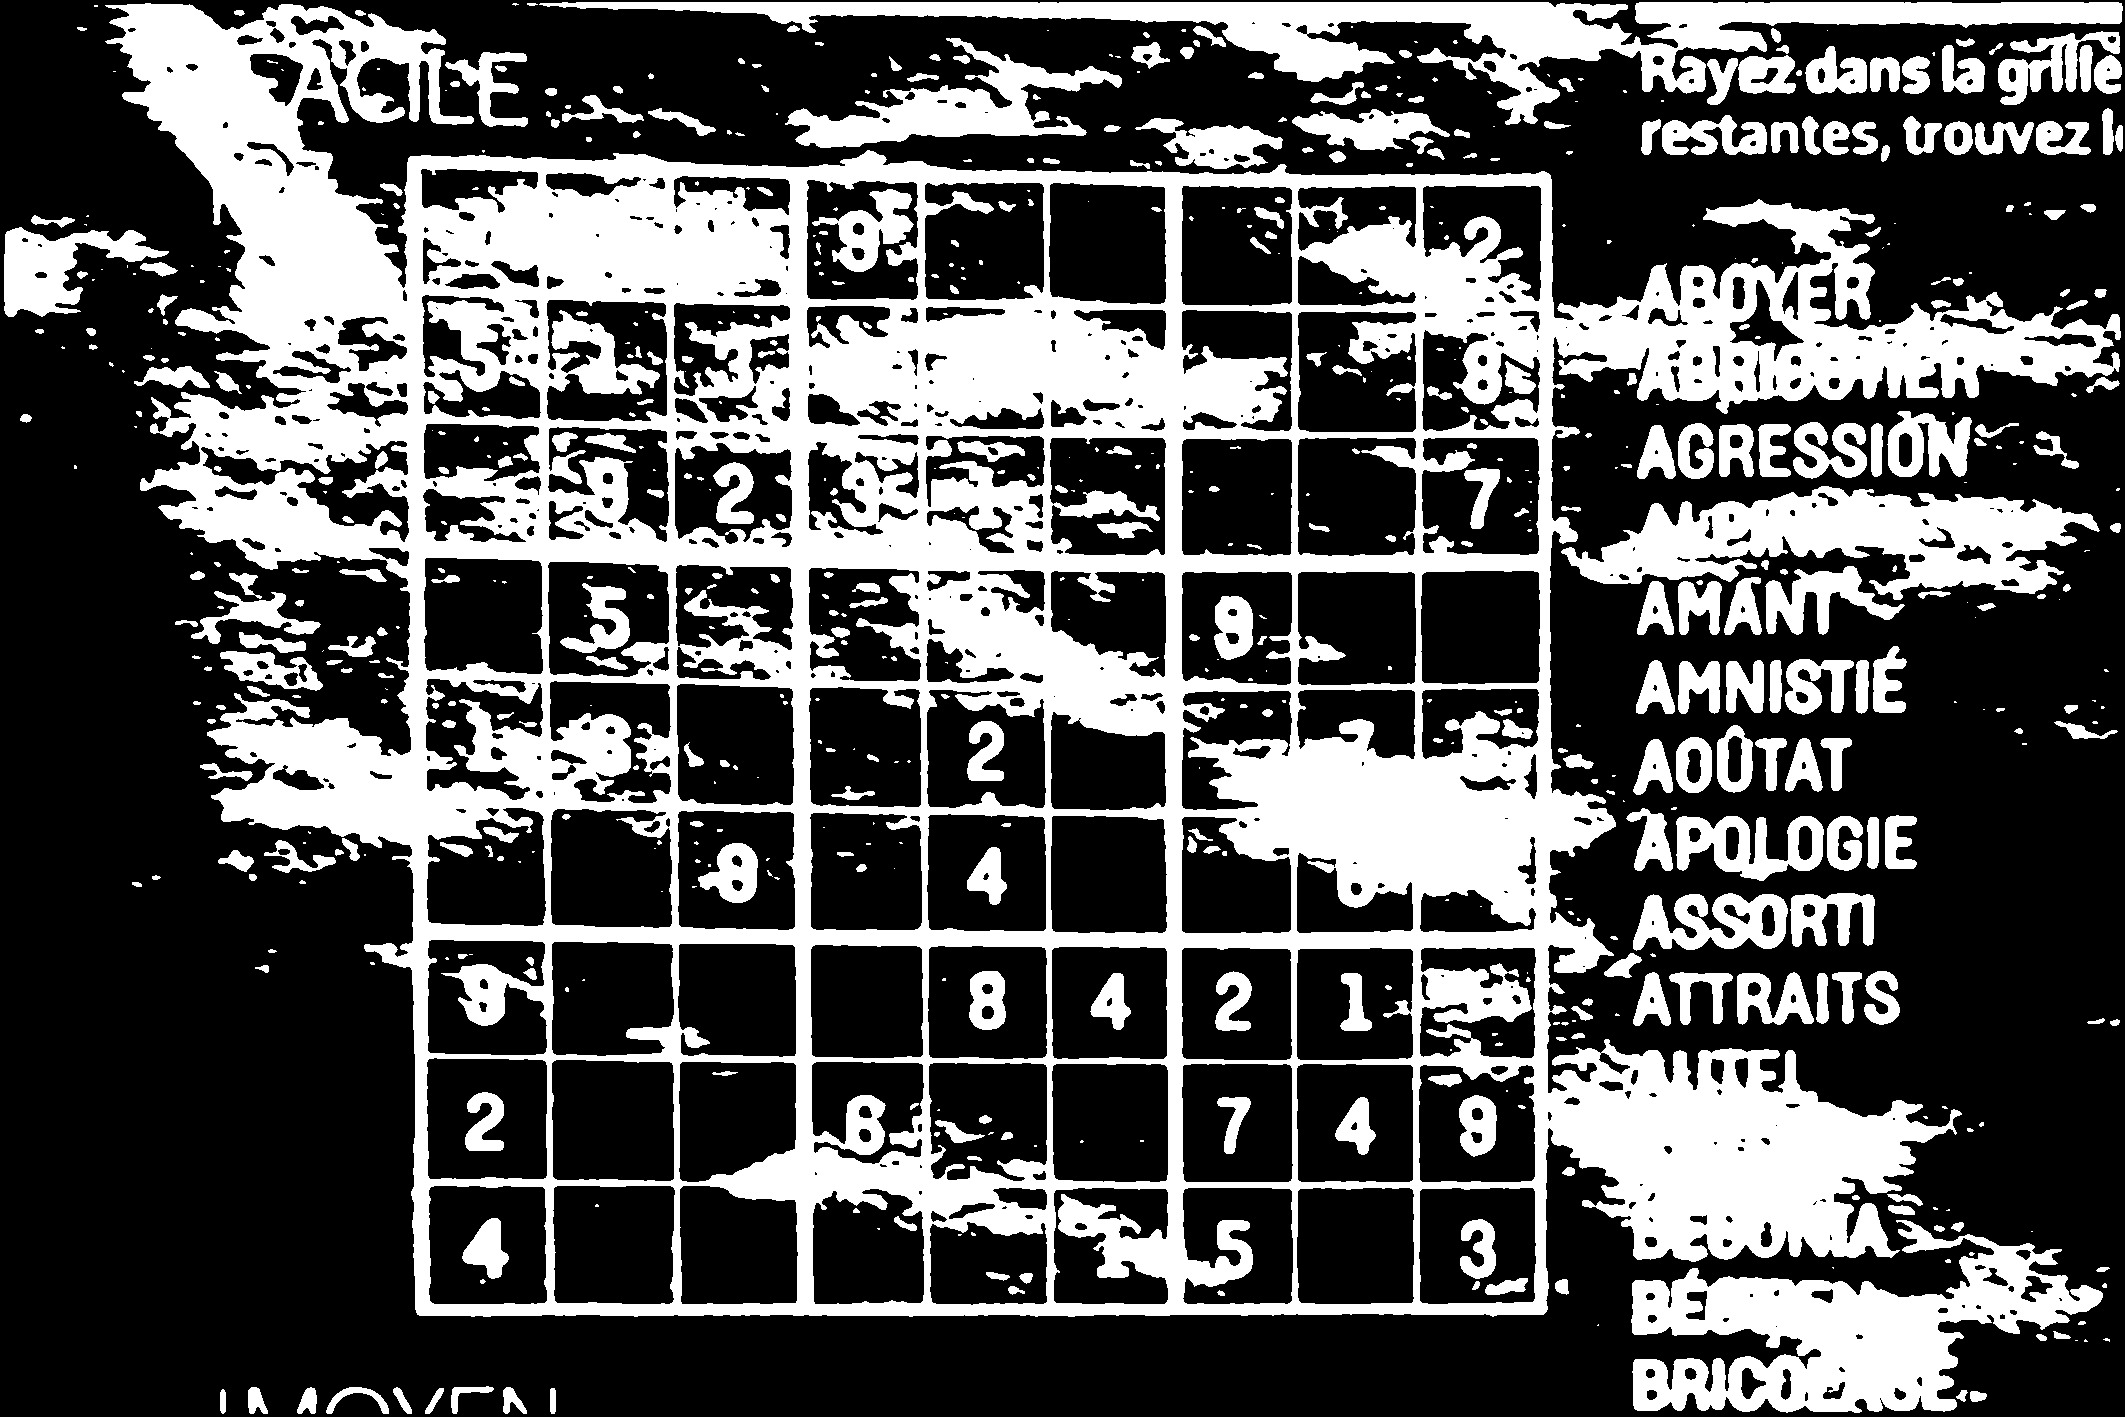
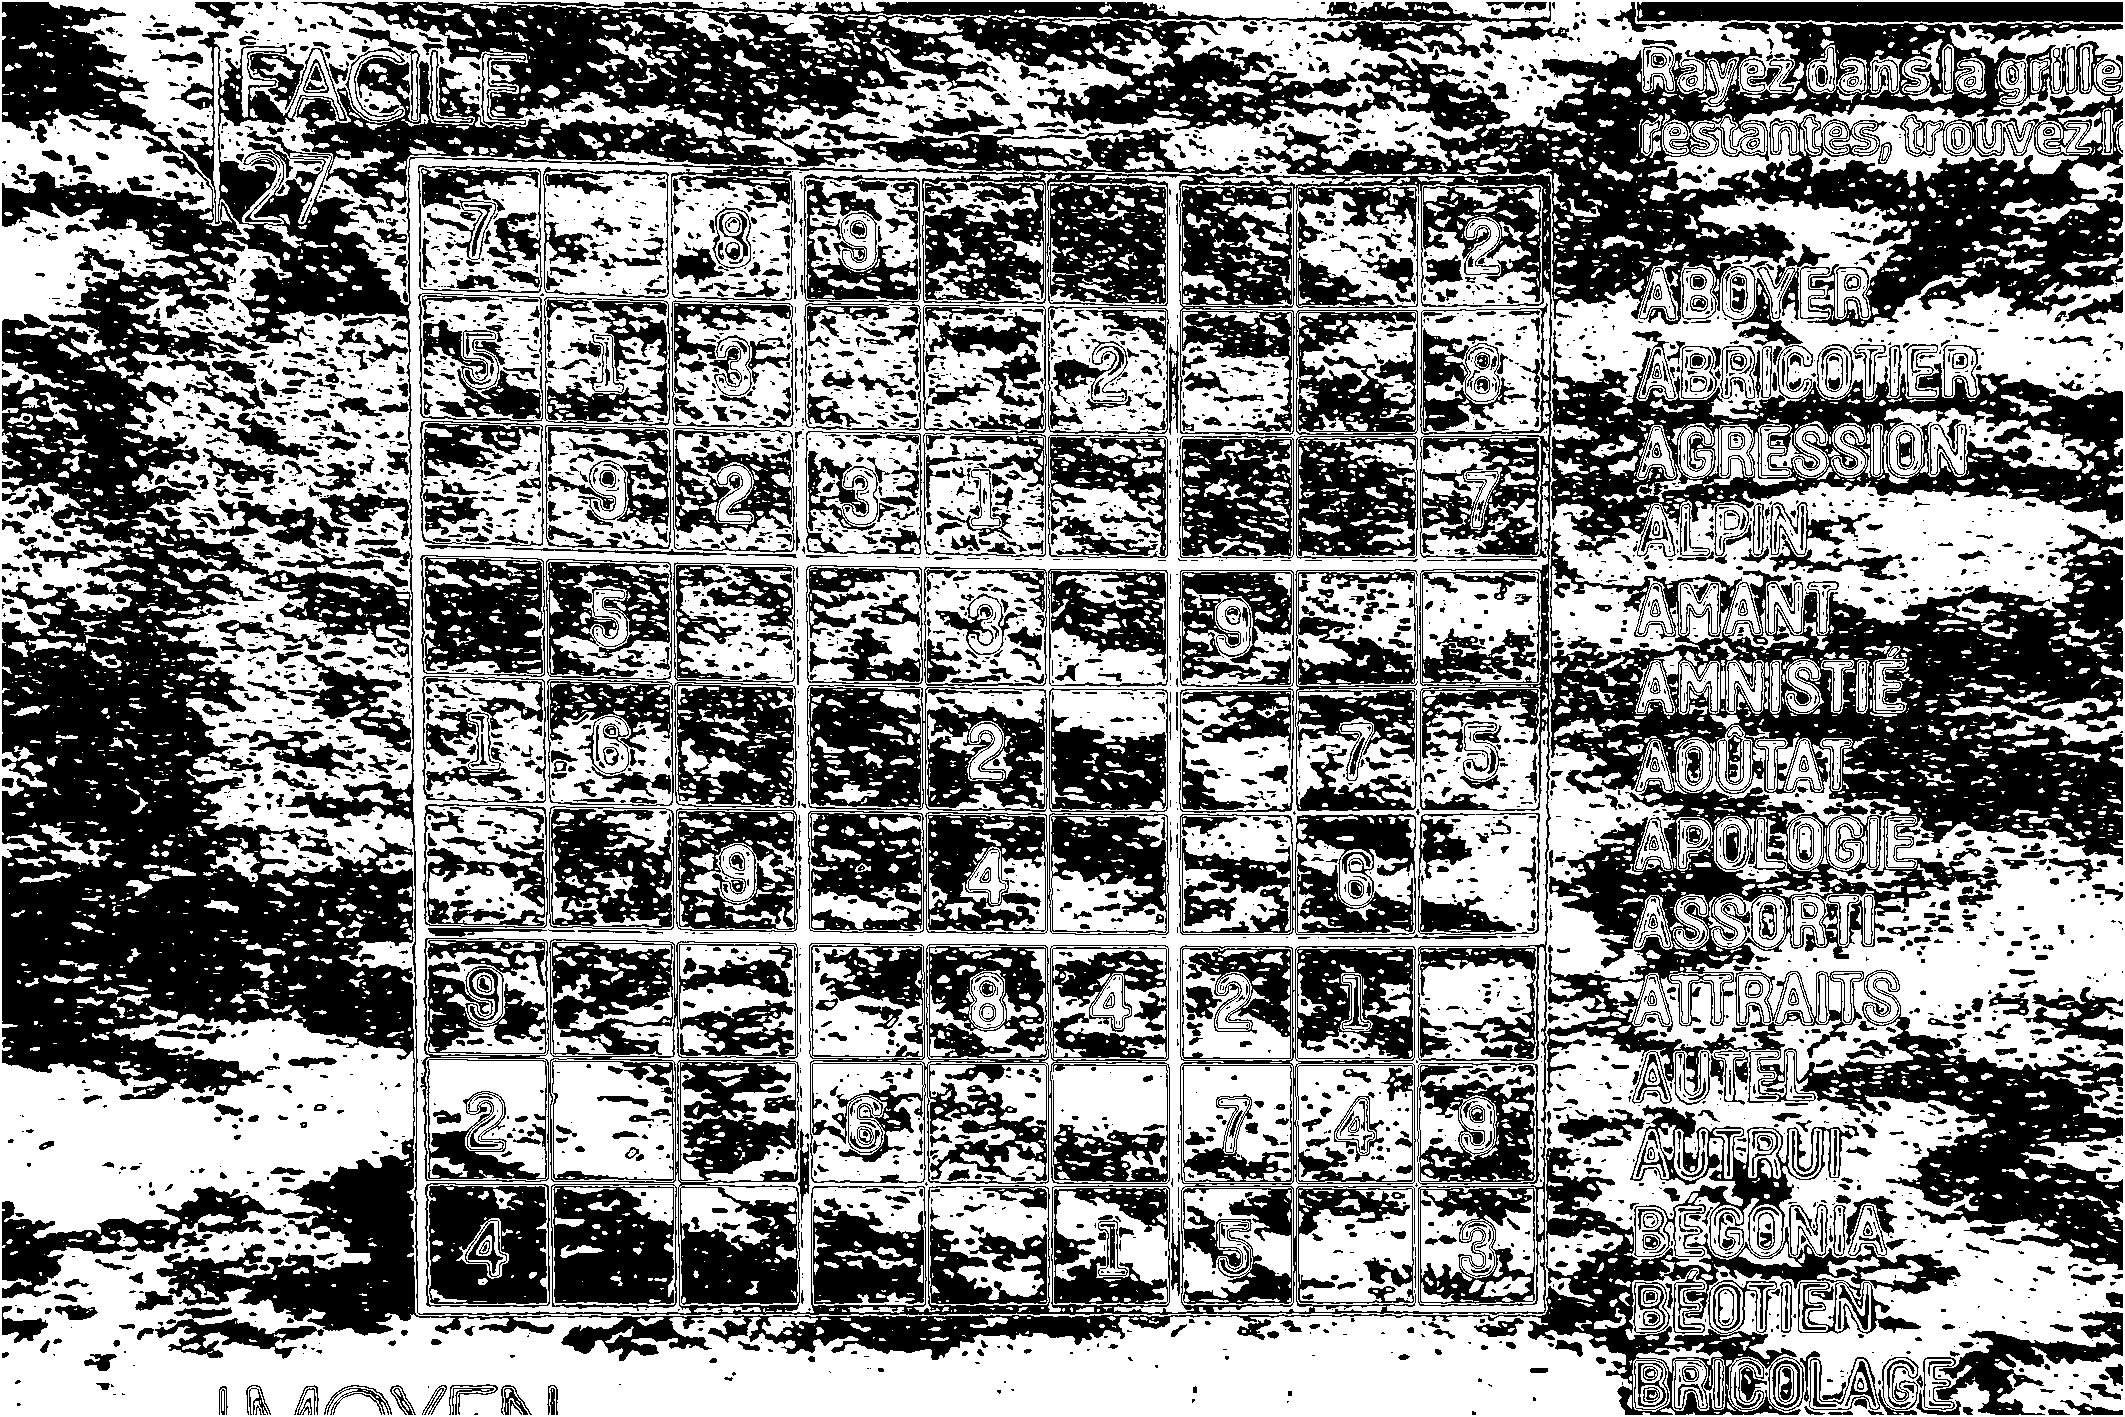
[*] upgrade noise

diff --git a/src/imageProcess/main.c b/src/imageProcess/main.c
@@ -12,9 +12,8 @@
 int main() {
   SDL_Surface* image = load("./tests/assets/image_04.jpeg");
   save(image, "generate.jpeg");
-  for(int i = 0; i < 10; i++){
-    image = noise_reduction(image,0.8);
-  }
+
+  image = noise_reduction(image,0.5);
 
 
   save(image, "generate1.jpeg");

diff --git a/src/imageProcess/noise_reduction.h b/src/imageProcess/noise_reduction.h
@@ -3,6 +3,6 @@
 
 #include <SDL2/SDL.h>
 
-SDL_Surface* noise_reduction(SDL_Surface* image,float x);
+SDL_Surface* noise_reduction(SDL_Surface* image, float x);
 
 #endif
